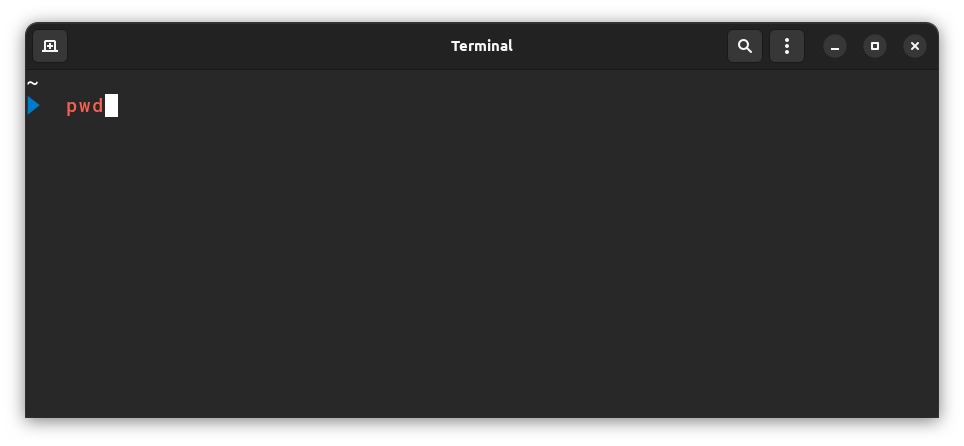
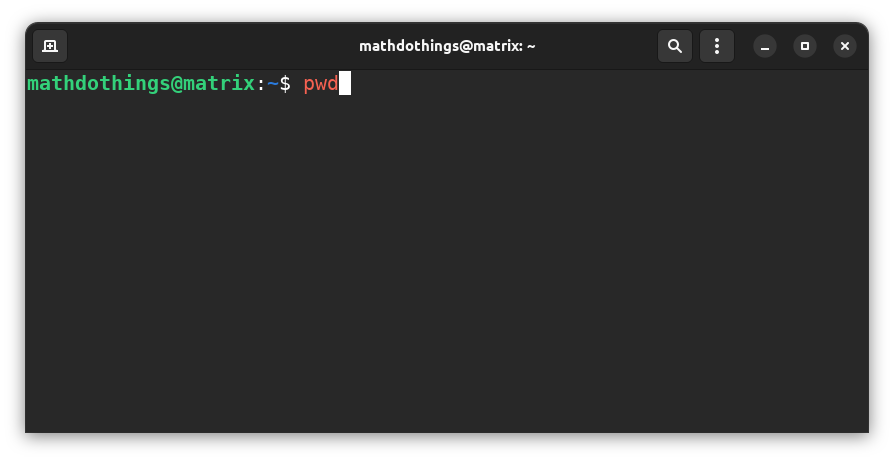
update

diff --git a/basic.md b/basic.md
@@ -27,27 +27,60 @@ Antes de começarmos, precisamos entender dois fatores importantes.
 
   ***
 
+- **cancel** <kbd>CTRL</kbd> + <kbd>C</kbd>
+
+  - Quando digitamos um comando e ele **está sendo executado**, se quisermos **cancelar** a execução do mesmo, podemos apertar <kbd>CTRL</kbd> + <kbd>C</kbd>.
+
+---
+
+- **done** <kbd>CTRL</kbd> + <kbd>D</kbd>
+
+  - Quando digitamos um comando e **ele está sendo executado**, se quisermos **finalizar** a execução do mesmo, podemos apertar <kbd>CTRL</kbd> + <kbd>D</kbd>. Diferente de cancelar, este atalho apenas informa ao shell que não queremos mais realizar posteriores operações neste comando, portanto, pode finalizar a tarefa. Caso nenhum comando específico esteja sendo executado, esse atalho irá fechar o terminal.
+
+  ***
+
 - <kbd>&darr;</kbd> e <kbd>&uarr;</kbd>
 
   - Tudo que digitamos no terminal fica guardado em um histórico próprio. Para acessá-lo, entre outras formas, usamos as teclas <kbd>&darr;</kbd> e <kbd>&uarr;</kbd> do teclado.
 
   ***
 
-- **kill** <kbd>CTRL</kbd> + <kbd>C</kbd>
-
-  - Quando digitamos um comando e ele **está sendo executado**, se quisermos **cancelar** a execução do mesmo, podemos apertar <kbd>CTRL</kbd> + <kbd>C</kbd>.
-
-  ***
-
 ## Comandos
 
-Nos exemplos abaixo estou utilizando o **Bash** no **gnome-terminal**. Utilizar comandos no terminal é muito simples, basta digitar o comando e apertar <kbd>ENTER</kbd>.
+Geralmente, quando iniciamos uma nova aplicação shell, vemos o seguinte:
 
-![pwd command](./images/pwd.png)
+![shell](./images/shell.png)
 
-Perceba que digitei `pdw` no terminal. Esse comando é um acrônimo para \"**p**rint **w**orking **d**irectory\". Em outras palavras, ele simplesmente mostra em qual diretório estamos.
+Como o espaço disponível para mostrar informações é muito limitado, em geral, os terminais optam por mostrar certos elementos ou símbolos que significam algo específico. Vamos entender melhor cada elemento exibido.
+
+1. **mathdothings** ⇒ nome do **usuário** ou **user**, inglês;
+
+2. **@** ⇒ símbolo utilizado para indentificar que esse usuário está utilizando o **hostname**, que geralmente é o nome do computador, como se fosse _mathdothings está utilizando o computador matrix_, onde matrix foi o nome que eu defini para o meu computador;
+
+3. **matrix** ⇒ nome do **hostname** ou nome do computador;
+
+4. **:** _(dois pontos / colon, em inglês)_ ⇒ símbolo utilizado para separar o hostname do working directory, ou seja, do diretório atual;
+
+5. **~** _(til / tilde, em inglês)_ ⇒ símbolo utilizado para representar o **home** directory do user. **~** e **/home/\<user\>** são equivalentes. Lembre-se que \<user\> deve ser substituído pelo nome do usuário, sem os \<\>.  
+   **Ex.:** `/home/mathdothings`
+
+6. **$** _(prompt)_ ⇒ símbolo utilizado para indicar que podemos executar comandos. Sempre que um comando for resolvido ou abrirmos uma nova aplicação shell, esse símbolo irá aparecer como sinal que outros comandos já podem ser inseridos.
+
+Deixei os nomes de alguns símbolos em inglês para referêcia, pois é muito comum expressões como _colon separator_, _tilde directory_ ou _command prompt_.
+
+---
+
+Nos exemplos abaixo estou utilizando o **Bash** no **gnome-terminal**.
+
+Utilizar comandos no terminal é muito simples, basta digitar o comando e apertar <kbd>ENTER</kbd>.
+
+![pwd](./images/pwd.png)
+
+Perceba que digitei `pdw` no terminal. Esse comando é um acrônimo para \"**p**rint **w**orking **d**irectory\". Em outras palavras, ele simplesmente mostra em qual **diretório** estamos.
 
 ![pwd result](./images/pwd-result.png)
+
+Antes de proseguirmos, irei explicar um pouco sobre **diretório** ou **directory**, em inglês. Um diretório é, de forma simples, um local onde podemos armazenar arquivos ou outros subdiretórios, é o equivalente a uma **pasta** em um ambiente gráfico. Daqui em diante passarei a utilizar o termo **directory/subdirectory** ao invés de **diretório/subdiretório**. Ou seja, quando mencionar directory estou me referindo a uma pasta, e, o mesmo para subdirectory, uma subpasta.
 
 - / ~ -
 - ls
